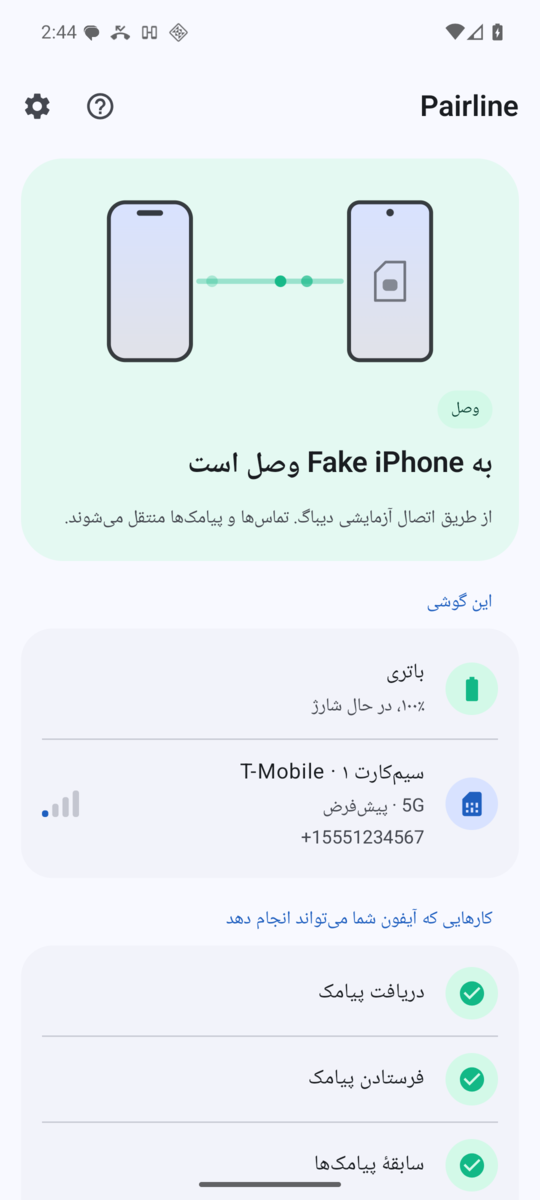
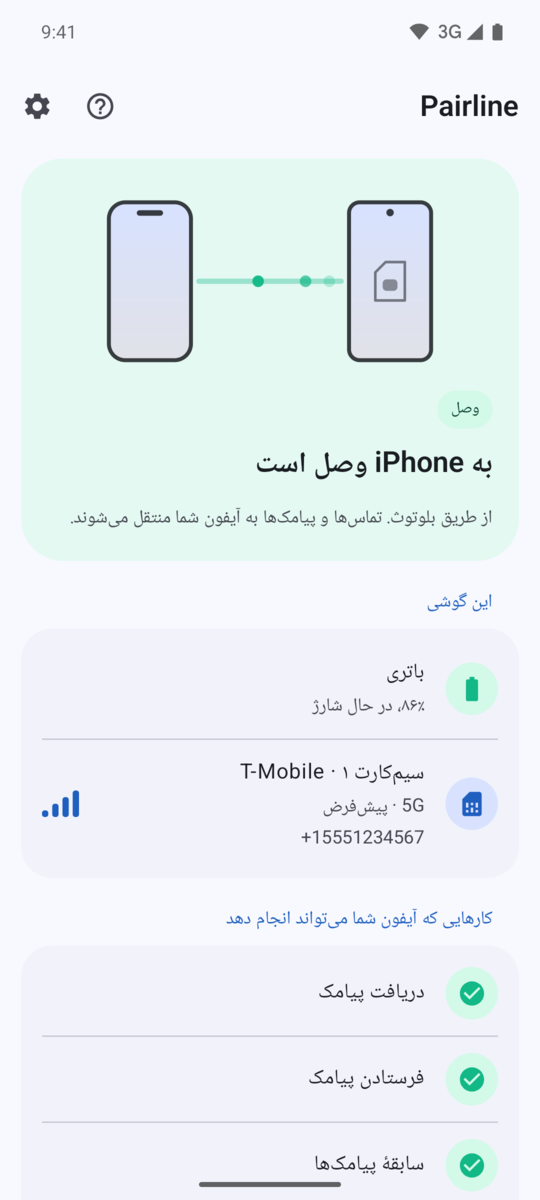
Screenshots: retake Android pairing/home/settings and two iPhone shots; debug-only screenshot mode
Android shots now show the real iPhone app paired over the debug link, the current 'Pair a bridge phone'
instruction, and a clean 9:41 status bar. A debug-only ScreenshotMode (set through the adb-only devtools
provider, D-018; a constant false stub in release) describes the debug TCP link like the Bluetooth link users
see, as -PairlineMarketing does on iOS (D-029). iPhone: English incoming call (was the Messages list) and
the Persian welcome page without a baked-in Dynamic Island.

diff --git a/android/app/src/debug/java/app/pairline/android/debugtools/DevToolsProvider.kt b/android/app/src/debug/java/app/pairline/android/debugtools/DevToolsProvider.kt
@@ -9,6 +9,7 @@ import android.os.Binder
 import android.os.Process
 import app.pairline.android.AppGraph
 import app.pairline.android.log.Log
+import app.pairline.android.ui.ScreenshotMode
 
 /**
  * DEBUG BUILDS ONLY (D-018). Lets tests pair and drive the app without a camera:
@@ -16,6 +17,7 @@ import app.pairline.android.log.Log
  *     adb shell content query --uri content://app.pairline.android.debug.devtools/pairing   # column `uri`
  *     adb shell content query --uri content://app.pairline.android.debug.devtools/state
  *     adb shell content query --uri content://app.pairline.android.debug.devtools/setup-done
+ *     adb shell content query --uri content://app.pairline.android.debug.devtools/screenshot-mode-on   # or -off
  *
  * Only the shell user (adb), root and the app itself may call it.
  */
@@ -53,6 +55,11 @@ class DevToolsProvider : ContentProvider() {
                 AppGraph.prefs.setupDone = true
                 Log.i("devtools", "setup marked done by adb")
                 addRow(arrayOf<Any>(true))
+            }
+            "screenshot-mode-on", "screenshot-mode-off" -> MatrixCursor(arrayOf("screenshot_mode")).apply {
+                ScreenshotMode.enabled = uri.lastPathSegment == "screenshot-mode-on"
+                Log.i("devtools", "screenshot mode ${if (ScreenshotMode.enabled) "on" else "off"}")
+                addRow(arrayOf<Any>(ScreenshotMode.enabled))
             }
             else -> null
         }

diff --git a/android/app/src/main/java/app/pairline/android/ui/home/HomeScreen.kt b/android/app/src/main/java/app/pairline/android/ui/home/HomeScreen.kt
@@ -57,6 +57,7 @@ import app.pairline.android.ui.Maker
 import app.pairline.android.ui.PIcons
 import app.pairline.android.ui.PermissionGroup
 import app.pairline.android.ui.Route
+import app.pairline.android.ui.ScreenshotMode
 import app.pairline.android.ui.SystemActions
 import app.pairline.android.ui.components.LinkIllustration
 import app.pairline.android.ui.components.LinkVisual
@@ -225,7 +226,11 @@ private fun LinkCard(
             StatusPill(stringResource(pill), tone)
             val (title, body) = when {
                 link.connected -> stringResource(R.string.home_connected_title, peer) to stringResource(
-                    if (link.transport == TransportKind.DEBUG_TCP) R.string.home_connected_body_tcp else R.string.home_connected_body,
+                    if (link.transport == TransportKind.DEBUG_TCP && !ScreenshotMode.enabled) {
+                        R.string.home_connected_body_tcp
+                    } else {
+                        R.string.home_connected_body
+                    },
                 )
                 link.bluetooth == BluetoothStatus.OFF -> stringResource(R.string.notif_bt_off_title) to stringResource(R.string.home_bt_off_body)
                 link.bluetooth == BluetoothStatus.NO_PERMISSION -> stringResource(R.string.home_bt_perm_title) to stringResource(R.string.home_bt_perm_body)

diff --git a/android/app/src/debug/java/app/pairline/android/ui/ScreenshotMode.kt b/android/app/src/debug/java/app/pairline/android/ui/ScreenshotMode.kt
@@ -1,0 +1,14 @@
+package app.pairline.android.ui
+
+/**
+ * DEBUG BUILDS ONLY (D-018). For the website and store screenshots taken on the emulator: the debug TCP link is
+ * described like the Bluetooth link a real user sees. Switched by adb through the devtools provider:
+ *
+ *     adb shell content query --uri content://app.pairline.android.debug.devtools/screenshot-mode-on
+ *
+ * Release builds have a stub that is always off (src/release).
+ */
+object ScreenshotMode {
+    @Volatile
+    var enabled: Boolean = false
+}

diff --git a/android/app/src/release/java/app/pairline/android/ui/ScreenshotMode.kt b/android/app/src/release/java/app/pairline/android/ui/ScreenshotMode.kt
@@ -1,0 +1,6 @@
+package app.pairline.android.ui
+
+/** Release builds never adjust the UI for screenshots. The debug version lives in src/debug (D-018). */
+object ScreenshotMode {
+    const val enabled: Boolean = false
+}
